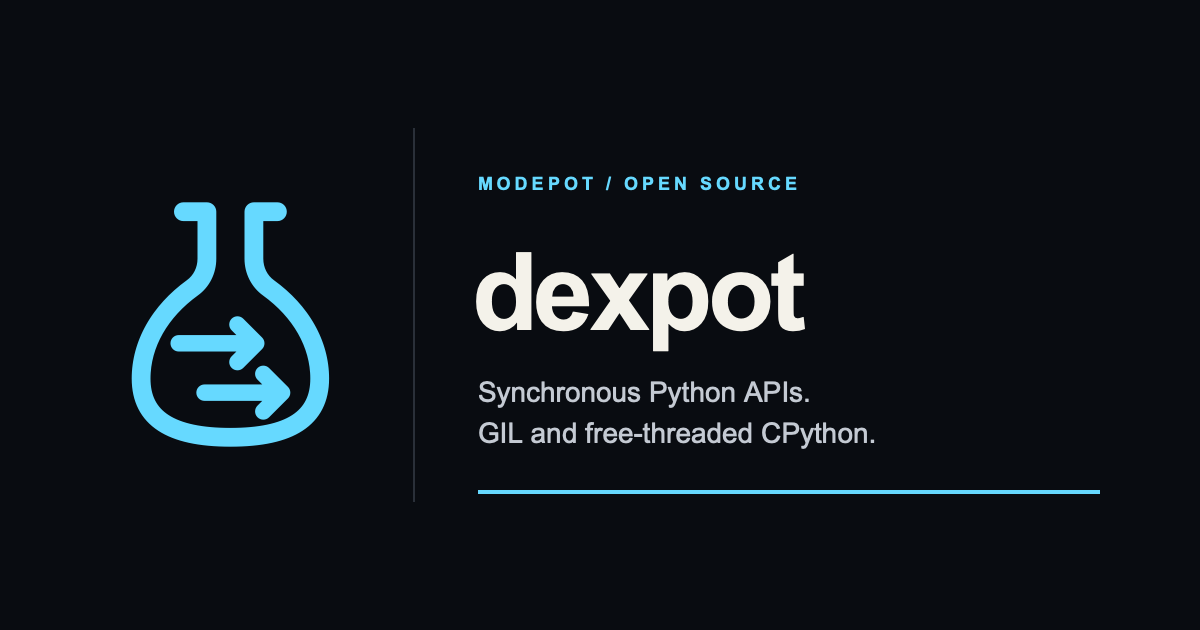
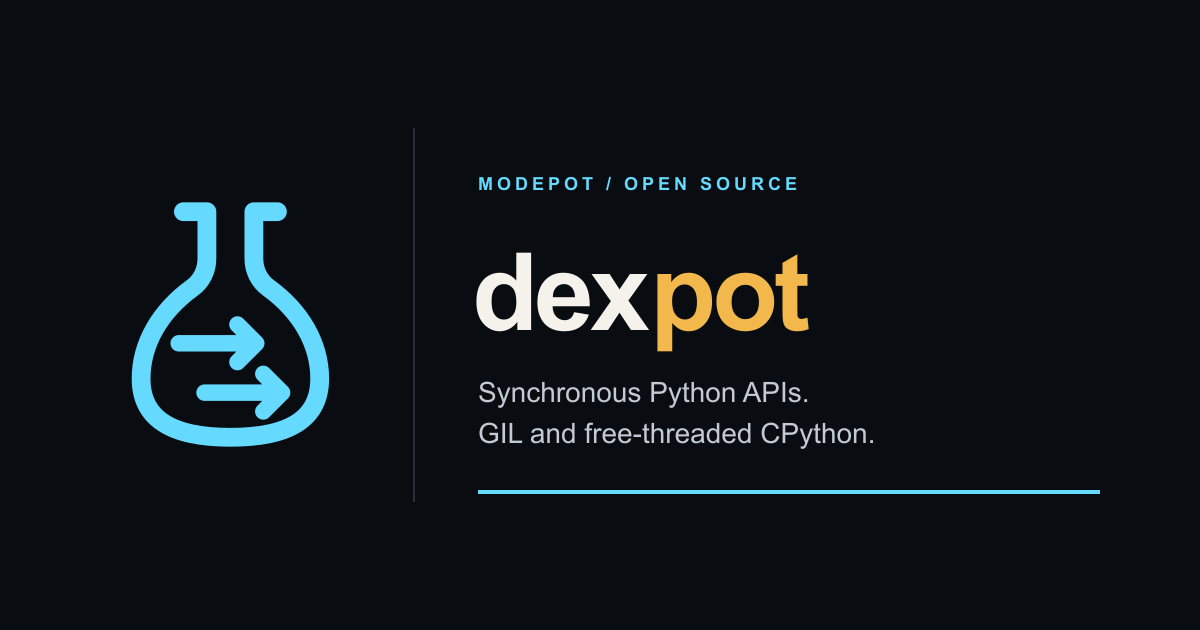
fix: colour dexpot wordmark suffix amber

diff --git a/changelog.d/+dexpot-wordmark.fixed.md b/changelog.d/+dexpot-wordmark.fixed.md
@@ -1,0 +1,1 @@
+Correct the Dexpot wordmark suffix colour to amber.
